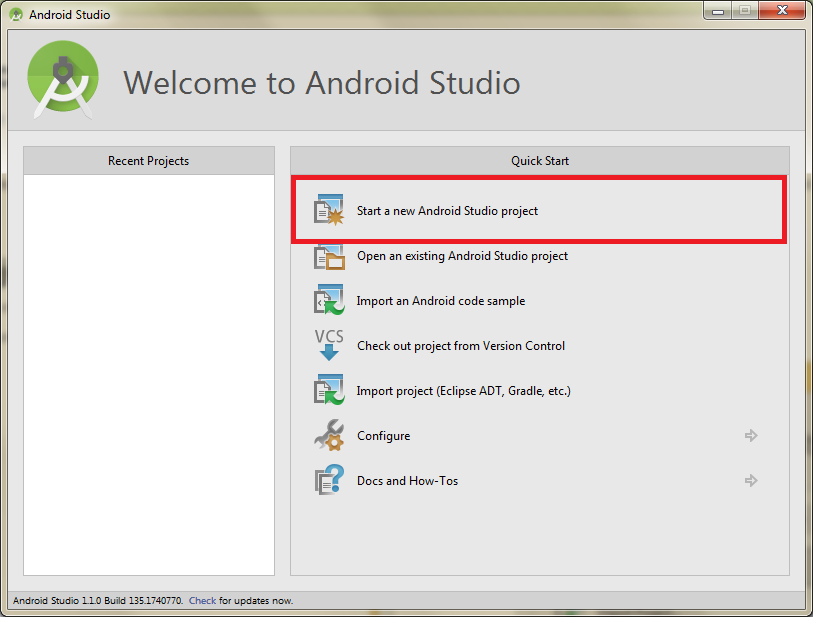
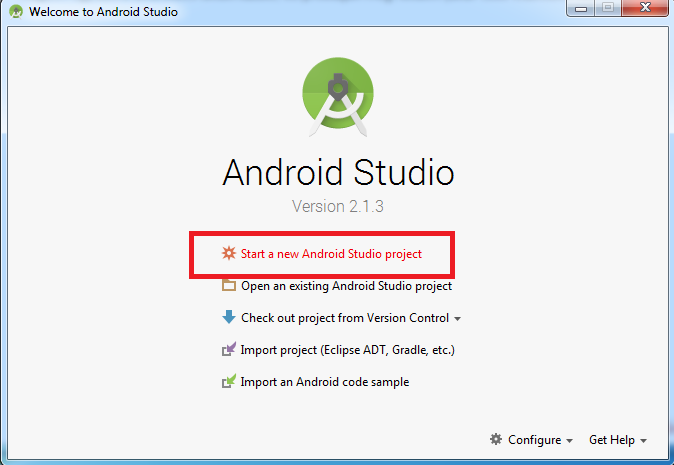
full review of compatibility with latest AS version (2.1.3)

diff --git a/lessons/l01.html b/lessons/l01.html
@@ -25,11 +25,6 @@
 		</h1>
 		<hr/>
 
-        <div class="possible-error">
-            <p>Figyelem! 2014. december 18. előtt pár dolog máshogy működött! A régi leírást
-                <a href="/lessons/l01_old.html">itt</a> éred el, ha mégis szükséged lenne rá.</p>
-        </div>
-
         <p>
             Mielőtt látványos és hasznos Android programokat írhatnánk, első lépésként fel kell telepítenünk az
             Android programozáshoz szükséges programokat a számítógépre. A feladat elég egyszerű, ennek
@@ -100,20 +95,7 @@
                     <img src="/static/img/l01/install/andStud5.png" />
                 </div>
             </li>
-			<li><p>Ha a fő program feltelepült, akkor még egy gyors konfigurálás következik.</p>
-				<p>Az újabb verzióknál ilyenkor kiválaszthatjuk például, hogy a szerkesztő ablaka dominánsan világos vagy sötét legyen.
-					Ez végsősoron mindegy. A honlapon látható képek a világos (IntelliJ) témával készütek</p>
-				<img src="/static/img/l01/install/theme.png" class="center-block" />
-			
-			</li>
-            <li>
-                <p>Ezt követően az Androdi Studio feltelepíti az Android SDK-t. Amint befejezte, a <em>Finish</em> gombra kattintva be lehet zárni az ablakot.</p>
-                <div class="imgstore">
-                    <img src="/static/img/l01/install/andStud_firstStart.png" class="center-block" />
-                    <img src="/static/img/l01/install/andStud_firstStart2.png" class="center-block" />
-                </div>
-            </li>
-            <li>
+			<li>
                 <p>Telepítés után az Android Studio üdvözöl minket a következő képernyővel</p>
                 <img src="/static/img/l01/install/andStud_import.png" class="center-block" />
                 <ol>
@@ -128,45 +110,44 @@
                     <p>Sajnos ez egy gyakori hiba, amire megoldást <a href="/lessons/l01-envvar.html" target="_blank">itt találsz</a>. Utána gyere ide vissza&nbsp;:)</p>
                 </div>
             </li>
+			<li><p>Ha a fő program feltelepült, akkor még egy gyors konfigurálás következik.</p>
+				<p>Az alapbeállítások (Standard) nekünk többnyire megfelelnek</p>
+				<div class="imgstore">
+                    <img src="/static/img/l01/install/setup1.png" class="center-block" />
+                    <img src="/static/img/l01/install/setup2.png" class="center-block" />
+                </div>
+			
+			</li>
+            <li>
+                <p>Ezt követően az Androdi Studio feltelepíti az alapértelmezett Android SDK-t. Amint befejezte, a <em>Finish</em> gombra kattintva be lehet zárni az ablakot.</p>
+                <div class="imgstore">
+                    <img src="/static/img/l01/install/andStud_firstStart.png" class="center-block" />
+                    <img src="/static/img/l01/install/andStud_firstStart2.png" class="center-block" />
+                </div>
+            </li>
             <li>
                 <p>Végre elindult az Android Studio, ahol a jövőben kiváló "app"-okat írhatunk okostelefonjainkra. Már
                     csak néhány apró lépés, és tényleg készen állunk.</p>
                 <ol>
                     <li>
                        <p>Kattints a Configure -> SDK Manager menüpontra</p>
-                       <div class="imgstore">
-                           <img src="/static/img/l01/install/sdk_manager1.png" />
-                           <img src="/static/img/l01/install/sdk_manager2.png" />
-                       </div>
+                       <img src="/static/img/l01/install/sdk_manager0.png" class="center-block"/>
                     </li>
                     <li>
-                        <p>A listában győződj meg arról, hogy semmi nincs kipipálva, csak az alábbi dolgok
-                            (alul a <em>Deselect all</em> linkkel tudod törölni a pipákat):</p>
-                        <ul>
-                            <li>Android 4.4.2 (API 19)
-                                <ul>
-                                    <li>SDK Platform</li>
-                                    <li>Intelx86 Atom System Image</li>
-                                    <li>Sources for Android</li>
-                                </ul>
-                            </li>
-                            <li>Extras
-                                <ul>
-                                    <li>Android Support repository</li>
-                                    <li>Android Support Library</li>
-                                    <li>Google Repository</li>
-                                    <li>Google USB Driver</li>
-                                    <li>Intel x86 Emulator Accelerator</li>
-                                </ul>
-                            </li>
-                        </ul>
+                        <p>Keresd meg az <code>Android 4.4 (KitKat), API level 19</code> sort. 
+                            Pipáld ki a sor elejét (ha nem volt kipipáva).
+                        <img src="/static/img/l01/install/sdk_manager6.png" class="center-block"/>
                     </li>
                     <li>
-                        <p>Kattints az "Install <em>X</em> packages..." gombra, és fogadd el a licensz feltételeket.
-                            Ezt a lista mindhárom fő pontján meg kell tenned (amíg az összes pipa zöld nem
+                        <p>Az <code>SDK Tools</code> fül alatt keresd meg a <code>Google USB Driver</code> sort. 
+                            Pipáld ki ezt is.
+                        <img src="/static/img/l01/install/sdk_manager7.png" class="center-block"/>
+                    </li>
+                    <li>
+                        <p>Kattints az Apply gombra, és fogadd el a licensz feltételeket.
+                            Verziótól függően lehet, hogy ezt a lista mindhárom fő pontján meg kell tenned (amíg az összes pipa zöld nem
                             lesz, mint a képernyőn). Utána "Install"</p>
                         <div class="imgstore">
-                            <img src="/static/img/l01/install/sdk_manager3.png" />
                             <img src="/static/img/l01/install/sdk_manager4.png" />
                         </div>
                     </li>

diff --git a/lessons/l03.html b/lessons/l03.html
@@ -104,8 +104,14 @@
                 <img src="/static/img/l03/06_importInProgress.png" class="center-block" />
             </li>
 			<li>
-				Az Android Studio egyes verziói az importálás közben az alábbi üzenettel fogadnak minket. Ilyenkor a <code>Yes</code> gombot nyomva lépjünk tovább
-				<img src="/static/img/l03/06b_dialogue.png" class="center-block" />
+				Mivel a projektünk nem feltétlenül az általad letöltött (legújabb) Android Studio verzióval készült, 
+				az első megnyitáskor találkozhatunk néhány furcsa hibaüzenettel. Szerencsére az Android Studio elég okos ahhoz, hogy 
+				elvégezze helyettünk a projekten az apróbb (szükséges) átalakításokat. Fogadjuk el a javaslatait.
+				<div class="imgstore">
+					<img src="/static/img/l03/06b_dialogue.png"/>
+					<img src="/static/img/l03/6cerr.png"/>
+					<img src="/static/img/l03/6dupgr.png"/>
+				</div>
 			</li>
         </ol>
     </section>
@@ -115,13 +121,13 @@
         <p>Mielőtt belekezdünk a fejlesztésbe, érdemes a <code>File -> Settings</code> menüben beállítani pár dolgot,
             ami megkönnyíti majd a munkát.</p>
         <ul>
-            <li>Az <code>Editor -> Appearance</code> oldalon a <code>Show line numbers</code> legyen kipipálva. Így sokkal könnyebb lesz hivatkozni
+            <li>Az <code>Editor -> General -> Appearance</code> oldalon a <code>Show line numbers</code> legyen kipipálva. Így sokkal könnyebb lesz hivatkozni
                 a kód egyes részeire.</li>
-            <li>Az <code>Editor -> Code completion</code> oldalon a <code>Case sensitive completion</code> értéke legyen None. Így kis- és
+            <li>Az <code>Editor -> General-> Code completion</code> oldalon a <code>Case sensitive completion</code> értéke legyen None. Így kis- és
                 nagybetűvel is elkezdheted majd írni a metódus és objektumneveket, a fejlesztőkörnyezet mindenképp tud
                 majd segíteni.</li>
-            <li><strong>Az <code>Editor -> Auto import</code> oldalon az <code>Optimize imports on the fly</code> és az <code>Add unambigous imports on the fly</code> is legyen kipipálva.</strong></li>
-            <li>A <em>Keymap</em> oldalon fent érdemes a Keymaps: Default helyett az Eclipse-t kiválasztani.</li>
+            <li><strong>Az <code>Editor -> General-> Auto import</code> oldalon az <code>Optimize imports on the fly</code> és az <code>Add unambigous imports on the fly</code> is legyen kipipálva.</strong></li>
+            <li>A <em>Keymap</em> oldalon fent érdemes lehet a Keymaps: Default helyett az Eclipse-t kiválasztani.</li>
         </ul>
         <p>A végén a beállításokat az OK gomb megnyomásával mentsd el!</p>
         <img src="/static/img/l03/09_settings.png" class="center-block" />

diff --git a/lessons/l02.html b/lessons/l02.html
@@ -31,7 +31,7 @@
     <h2>Új projekt létrehozása</h2>
     <ol>
         <li>Indítsuk el az Android Studio-t</li>
-        <li>Kattintsunk a "New Project…" menüpontra
+        <li>Kattintsunk a "Start a new Android Studio project" menüpontra
             <img src="/static/img/l02/01_createProject.png" class="center-block" />
         </li>
         <li>A megnyíló ablakban adjuk meg az app alap adatait:
@@ -58,17 +58,17 @@
         </li>
         <li>A következő oldalon azt kell eldöntenünk, hogy milyen kiinduló nézetet generáljon nekünk a
             fejlesztőkörnyezet. Ettől később természetesen el lehet térni, de egyszerűbb a fejlesztés,
-            ha már az elején ki tudjuk választani az alapot. Itt is maradhat az
-            alapbeállítás (<code>Blank Activity</code>).
+            ha már az elején ki tudjuk választani az alapot. Itt maradjunk az (<code>Empty Activity</code>) opciónál.
             <img src="/static/img/l02/04_addActivity.png" class="center-block" />
         </li>
         <li>Az utolsó oldalon megadhatjuk az alkalmazásunk nyitó nézetének adatait:
             <ul>
                 <li><em>Activity Name:</em> A létrehozandó fájl (és osztály) neve. Legyen <code>MainActivity</code>.</li>
+                <li><em>Generate Layout File:</em> Legyen kipipálva, hogy könnyen szerkeszthető legyen az Activity 
+				kinézete a grafikus layout editorral (későbbi leckék folyamán látjuk majd ennek az igazi előnyét).</li>
                 <li><em>Layout Name:</em> A nézet szerkezetét (hol milyen gomb, szöveg, stb. legyen)
                     leíró fájl neve. Ha az Activity Name mezőt átírtuk, akkor ez is már a
                     megfelelő értéket vette fel (<code>activity_main</code>).</li>
-                <li><em>Title:</em> Az ide írt szöveg jelenik meg a képernyő tetején. Maradhat <code>MainActivity</code>.</li>
             </ul>
             <img src="/static/img/l02/05_activityName.png" class="center-block" />
         </li>
@@ -104,7 +104,7 @@
     <p>Ez így nagyon üres, pedig egy csomó minden készen van már, csak elő kell csalogatni:</p>
 
     <ol>
-        <li>Kapcsoljuk be a View menü -> Tool buttons beállítást
+        <li>Győződjünk meg arról, hogy a View menü -> Tool buttons beállítás ki van pipálva.
             <img src="/static/img/l02/10_toolButtons.png" class="center-block" />
         </li>
         <li>Baloldalt nyissuk meg a „Project” panelt és ennek tetején állítsuk át a nézetet „Android”-ra

diff --git a/lessons/l06.html b/lessons/l06.html
@@ -120,7 +120,7 @@
                             <li>Állítsuk be az ImageView méretét (layout:width és layout:height). 
                                 Mondjuk legyen 100dp magas és 100dp széles. Vagy bármilyen más értéket is választhatsz, ami jól néz ki.</li>
                             <li>Válasszuk ki, hogy az <code>ImageView</code> az iránytű képét mutassa. Ehhez az <strong>src</strong> (source)
-                                tulajdonságnál kattints a [&hellip;] gombra, és válaszd ki a compass képet.
+                                tulajdonságnál kattints a [&hellip;] gombra, és válaszd ki a "Drawable" listából a compass képet (kereső mező segít).
                                 <div class="imgstore">
                                     <img src="/static/img/l06/03_src.png" class="center-block" />
                                     <img src="/static/img/l06/04_res.png" class="center-block" />
@@ -313,12 +313,13 @@ sensorManager.registerListener(this, orientation, SensorManager.SENSOR_DELAY_UI)
                 <li>Jobb gombbal kattints az app pontra a projektedben
                     <img src="/static/img/l06/act0.png" class="center-block" />
                 </li>
-                <li>Válaszd ki a <code>New -> Activity -> Blank Activiy</code> pontot.
+                <li>Válaszd ki a <code>New -> Activity -> Empty Activiy</code> pontot.
                     Ezzel annyit mondtunk, hogy egy üres Activityt szeretnénk létrehozni.
                     <img src="/static/img/l06/act1.png" class="center-block" />
                 </li>
                 <li>
-                    Az Activity dialógusban adjuk meg az Activity nevét. Ez legyen mondjuk <code>AboutActivity</code>.
+                    Az Activity dialógusban adjuk meg az Activity nevét. Ez legyen mondjuk <code>AboutActivity</code>. Generate Layout File mellett maradjon a pipa,
+					hogy megkapjuk a könnyen szerkeszthető layout fájlunkat az új Actvitity-hez is.
                     <img src="/static/img/l06/act2.png" class="center-block" />
                 </li>
                 <li>Láthatjuk, hogy a projektünkben született egy új layout fájl (<code>activity_about</code>) 

diff --git a/lessons/l12.html b/lessons/l12.html
@@ -68,7 +68,7 @@
             projekthez kapcsolódó osmdroid pedig a világtérképet elérhetővé teszi az Android
             kódunkból is. A Google Maps is nyújt hasonló API-t, azonban ennek használatát a Google
             szigorúbb ellenőrzés alatt tartja. A Google Maps API első használata előtt be kell
-            szereznünk egy Androdi Certificate-t és egy Google Maps API keyt. Ezek ugyan ingyenesen
+            szereznünk egy Android Certificate-t és egy Google Maps API keyt. Ezek ugyan ingyenesen
             elérhetőek, ebben a leckében most úgy döntöttünk, hogy megkíméljük az olvasót ettől a
             kényelmetlenségtől, és a könnyebb utat választva inkább az Open Street Map térképeit
             használjuk.

diff --git a/lessons/l07.html b/lessons/l07.html
@@ -138,7 +138,7 @@
                 </li>
                 <li>
                     <p>Innentől ismerős lesz a folyamat, ugyanis most következik a kiinduló Acitivity hozzáadása. 
-                        Az előző leckéhez hasonlóan válasszuk a <code>Blank Activity</code> lehetőséget; a következő oldalon pedig
+                        Az előző leckéhez hasonlóan válasszuk a <code>Empty Activity</code> lehetőséget; a következő oldalon pedig
                         a neve legyen <code>GolyoActivity</code>.</p>
                     <img src="/static/img/l07/newProj4.png" class="center-block" />
                 </li>
